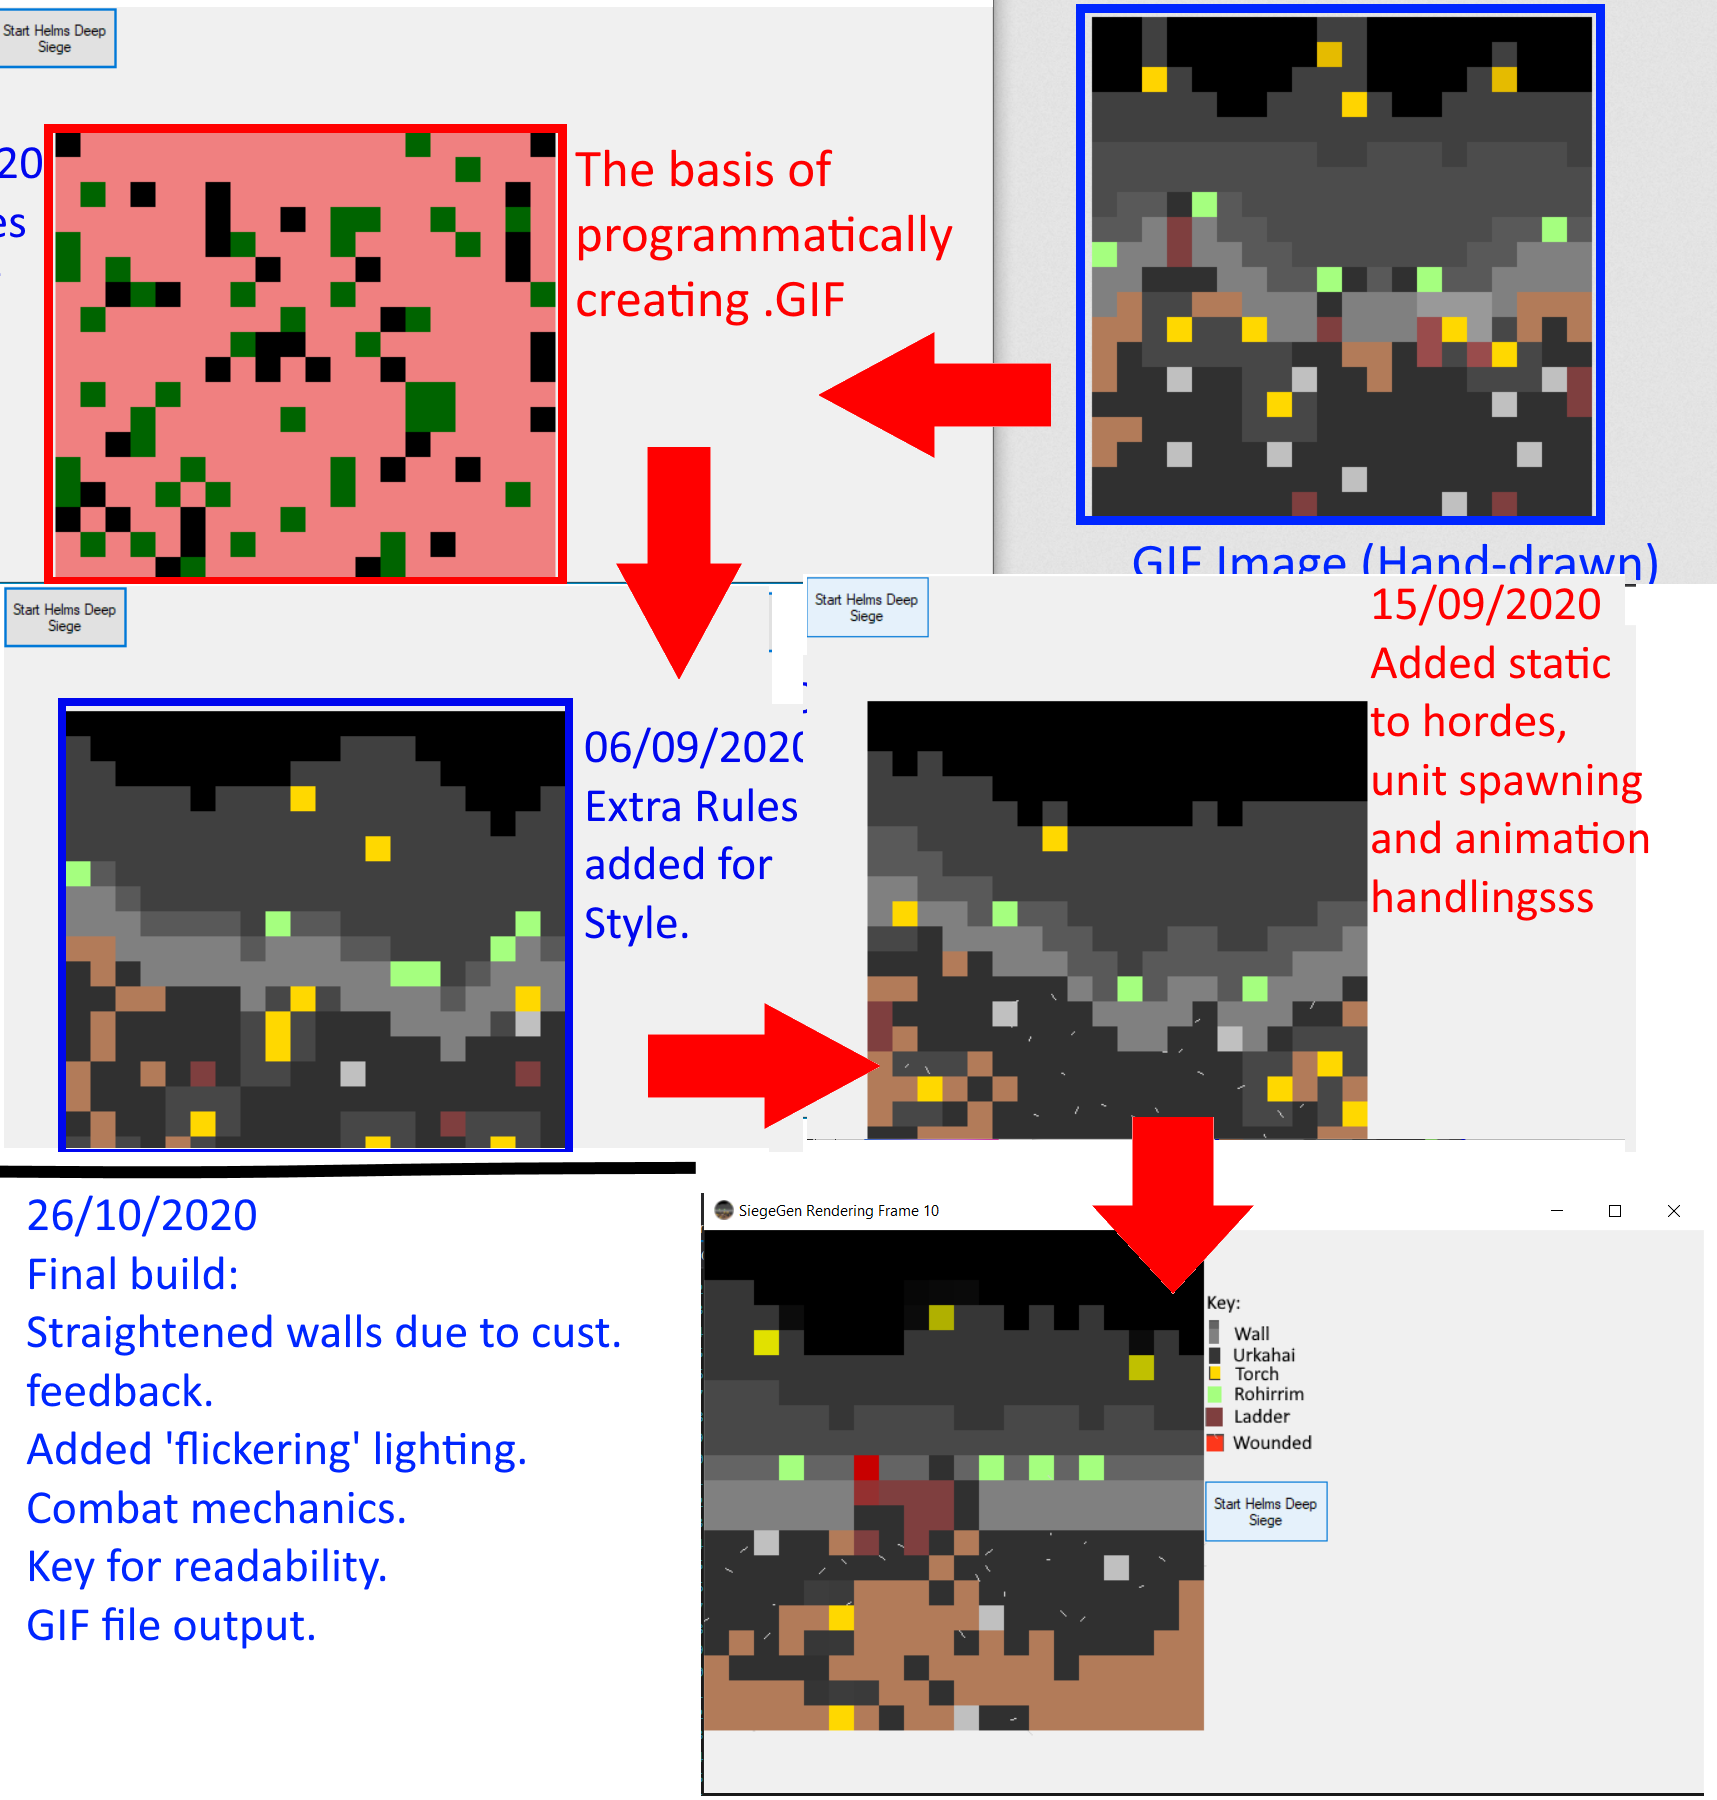
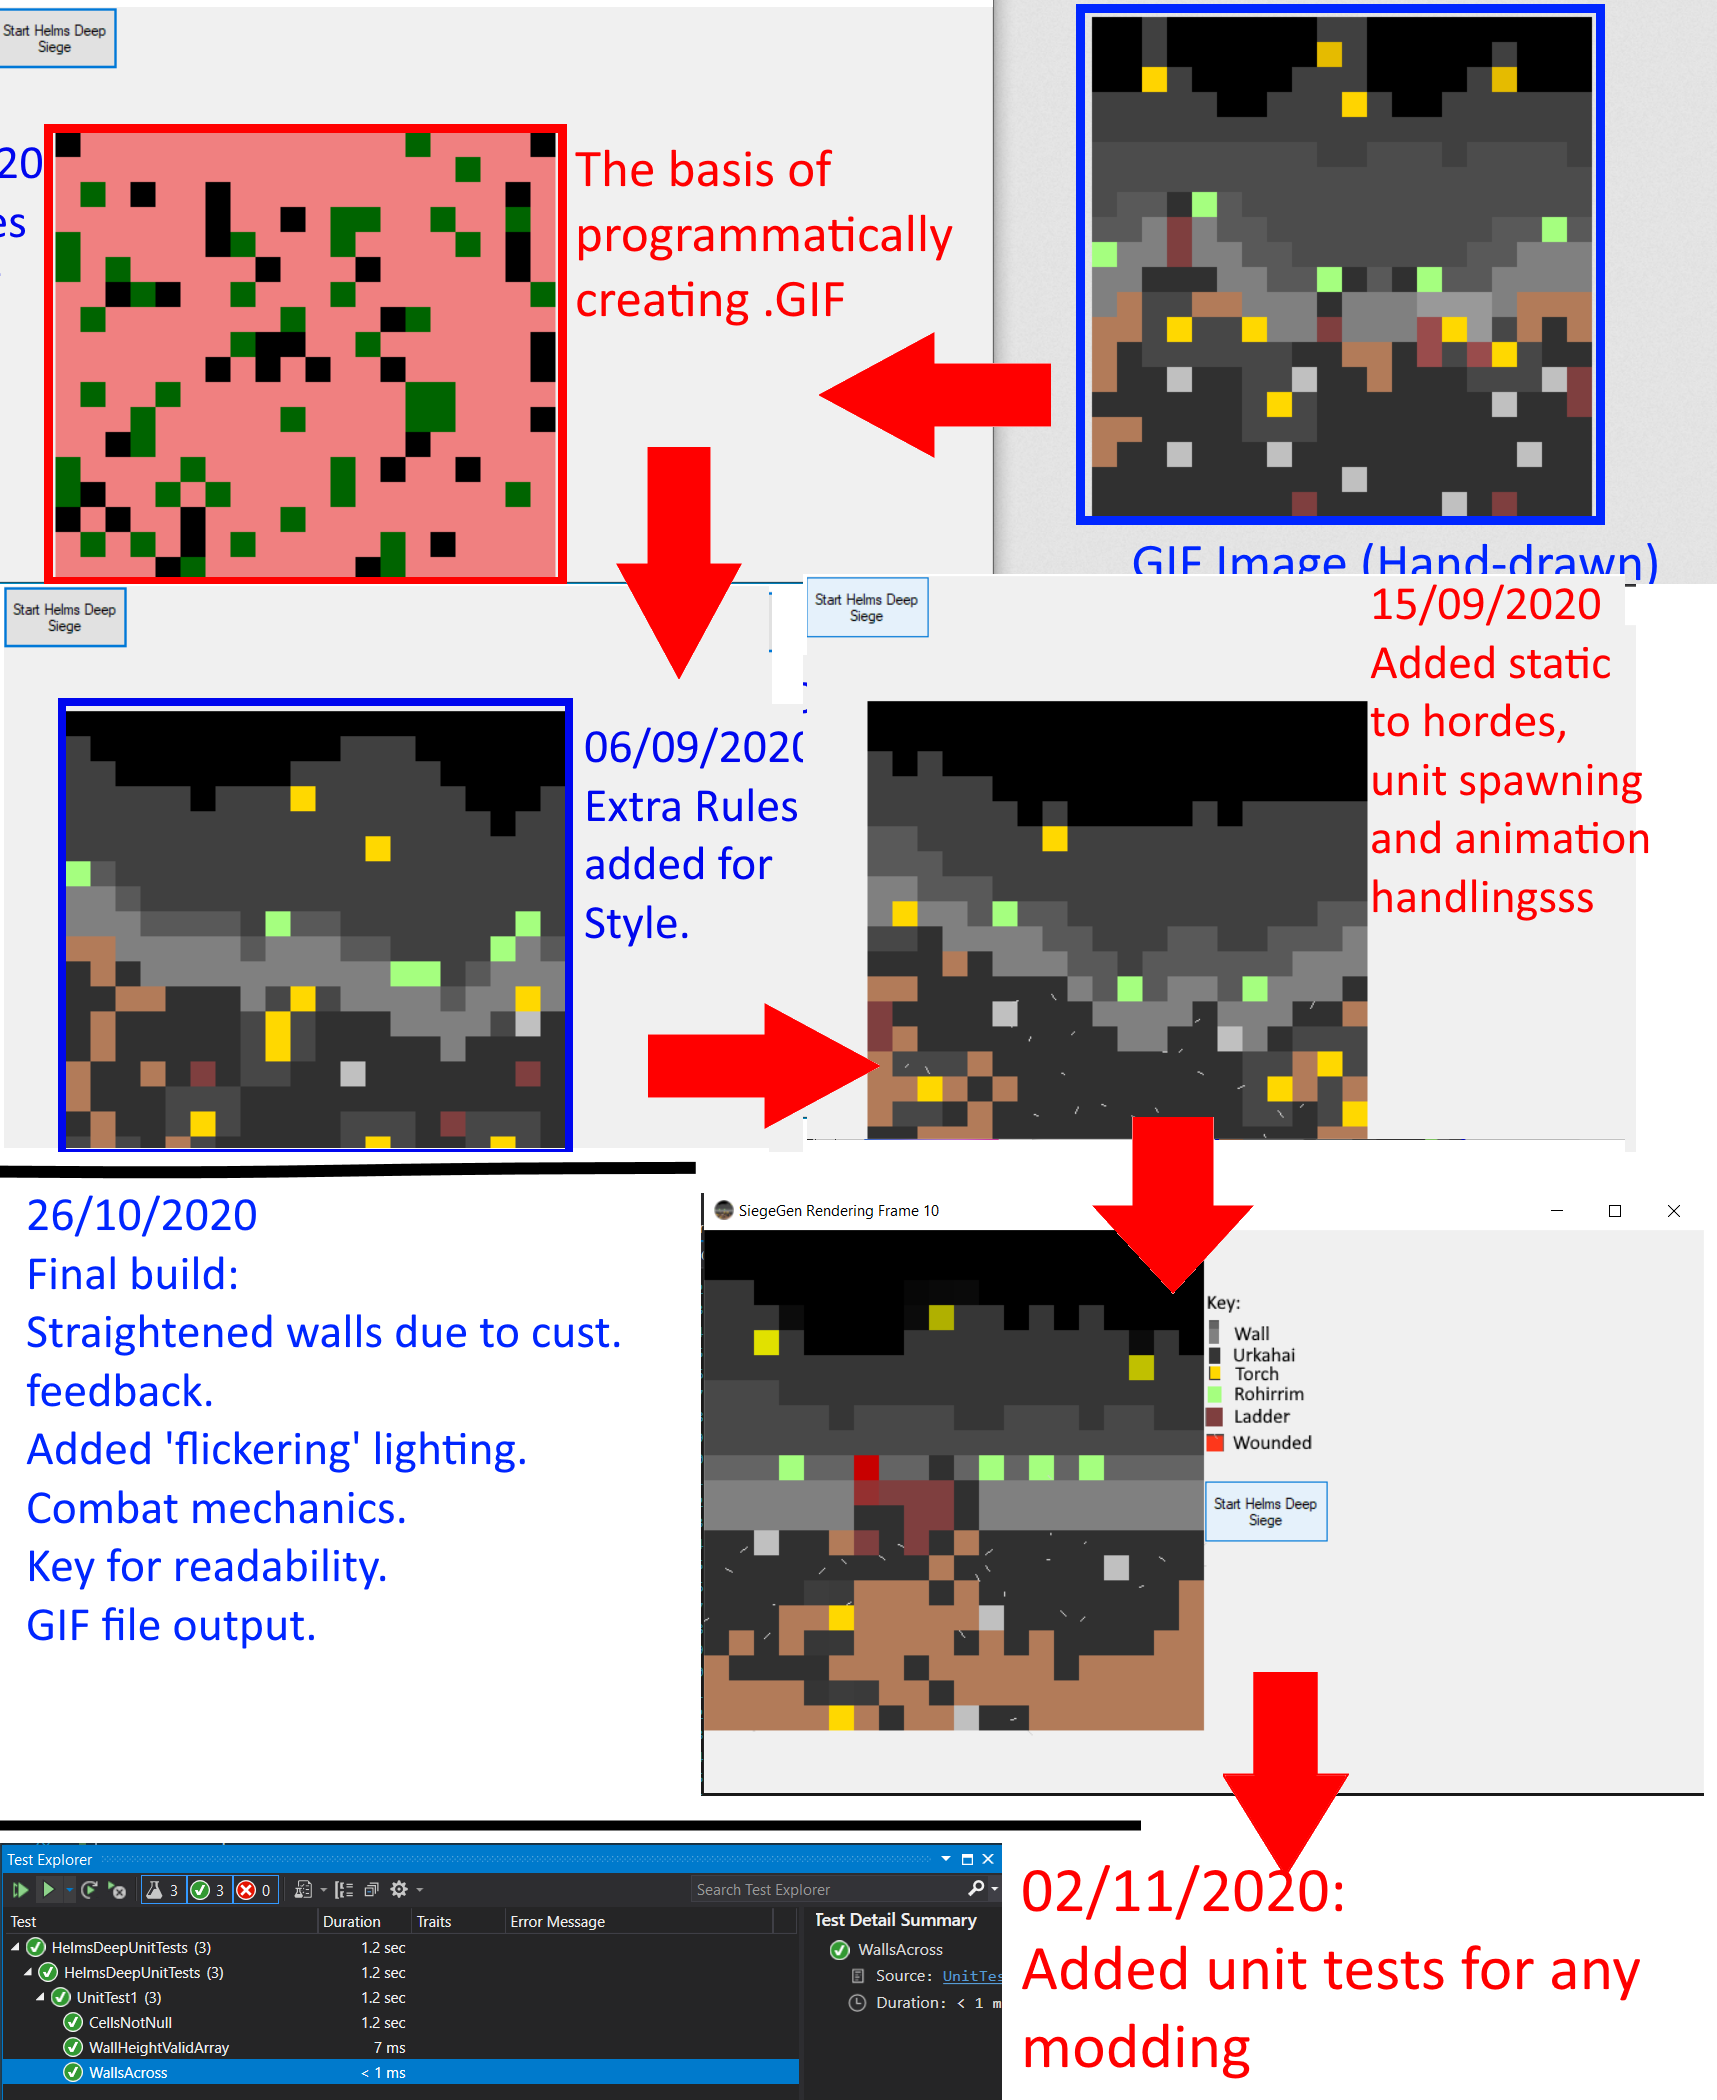
02/11/2020 UnitTest Upload
UnitTests1.cs -> Add Four Unit Tests
Add Comments to each Unit test
Update README image 'Progress.png'

diff --git a/UnitTest1.cs b/UnitTest1.cs
@@ -1,0 +1,133 @@
+using System;
+using System.Diagnostics;
+using System.Security.Cryptography;
+using Microsoft.VisualStudio.TestTools.UnitTesting;
+using WindowsFormsApp1;
+
+namespace HelmsDeepUnitTests
+{
+    [TestClass]
+    public class UnitTest1
+    {
+        /// <summary>
+        /// CellsNotNull runs the initation script that sets all cells to a default, and
+        /// then checks if all cells in <see cref="Globals.siegeCells"/> are not null.
+        /// </summary>
+        [TestMethod]
+
+        public void CellsNotNull()
+        {
+
+            bool pass = true;
+            if (true)
+            {
+
+                WorkerFunctions.HelmsDeepButton(new Form1(), 1);
+                for (int i = 0; i < Globals.height; i++)
+                {
+                    for (int f = 0; f < Globals.height; f++)
+                    {
+                        if (Globals.siegeCells[0, 0] == null)
+                        {
+                            pass = false;
+                        }
+                    }
+                }
+            }
+
+            if (pass)
+            {
+                Assert.AreNotEqual(pass, false);
+            }
+            else
+            {
+
+                Assert.Fail();
+            }
+        }
+        /// <summary>
+        /// WallHeightValidArray confirms that the 'wallheight' array is of valid data and size
+        /// </summary>
+        [TestMethod]
+        public void WallHeightValidArray()
+        {
+            bool pass = true;
+            if (Globals.height > Globals.wallHeight.Length)
+            {
+                Assert.Fail();
+            }
+            for (int i = 0; i < Globals.height; i++)
+            {
+                if (Globals.wallHeight[i] < 0 || Globals.wallHeight[i] > Globals.height)
+                {
+                    pass = false;
+                }
+            }
+            Assert.IsTrue(pass);
+        }
+        /// <summary>
+        /// Wall across takes the above pre-generated Globals and confirms all cells are either within the
+        /// parameters set by wallheight, ot not walls
+        /// </summary>
+        [TestMethod]
+        public void WallsAcross()
+        {
+            bool pass = true;
+            for (int i = 0; i < Globals.height; i++)
+            {
+                for (int f = 0; f < Globals.height; f++)
+                {
+                    if (Globals.siegeCells[i, f].GetCellType() == SiegeFunctions.CellTypes.Wall)
+                    {
+                        if (f - Globals.wallHeight[i] < 0 || f - Globals.wallHeight[i] > 2)
+                        {
+
+                            Assert.Fail(String.Format("Failing on wall  in non-valid spot with x,y,wallheight : {0} {1} {2}", i, f, Globals.wallHeight[i]));
+                            pass = false;
+                        }
+                    }
+                    if (Globals.wallHeight[i] + 1 == f || Globals.wallHeight[i] + 2 == f)
+                    {
+                        if (Globals.siegeCells[i, f].GetCellType() != SiegeFunctions.CellTypes.Wall)
+                        {
+                            Assert.Fail("Failing on wallheight array not wall");
+                            pass = false;
+                        }
+                    }
+                }
+                if (pass)
+                {
+                    Assert.AreEqual(pass, true);
+                }
+                else
+                {
+
+                    Assert.Fail();
+                }
+
+            }
+        }
+        /// <summary>
+        /// AllCellsNotOneType checks to see if any cells in the <see cref="Globals.siegeCells"/> array are of the type 'Empty',
+        /// As this celltype should never come up.
+        /// </summary>
+        [TestMethod]
+        public void AllCellsNotNoneType()
+        {
+            bool pass = true;
+            for (int i = 0; i < Globals.height; i++)
+            {
+                for (int f = 0; f < Globals.height; f++)
+                {
+                    if (Globals.siegeCells[i,f].GetCellType()==SiegeFunctions.CellTypes.Empty)
+                    {
+                        Assert.Fail(String.Format("Found and empty cell at x,y {0},{1}",i,f));
+                        pass = false;
+                    }
+                }
+            }
+            Assert.IsTrue(pass);
+        }
+
+    }
+}

diff --git a/README.md b/README.md
@@ -36,27 +36,16 @@ This is a short C# project designed to replicate a hand-drawn micro .GIF (animat
 26/10/2020 1.0 Release:
 
 WorkerFunctions.DisplayCells -> Modify output pixel-size to 400 so there is no excess canvas.
-
 SiegeFunctions.Directions -> Add enum 'Destroy' so unit can be removed.
-
 WorkerFunctions.SetupAnimation -> Add condition to reove cell if direction is 'destroyed'.
-
 WorkerFunctions.RunAnimation -> Add condition to make cell's direction 'destroy' 1/3 of the time where cell type is 'wounded to enable casulties
-
 WorkerFunctions.FillCells -> Make WallHeight always '8' to make walls straight (Due to customer feedback) 
-
 WorkerFunctions.DisplayCells -> Change ARGB values of walltop,cityproper and bakcgroundcity so they are more visible
-
 WorkerFunctions.DisplayCells -> Randomize 'lighting' change to adjacent ARGB values, to create a 'shimmering' lighting effect
-
 WorkerFunctions.DisplayCells -> Modify condition to add 'static; effect representing infantry, so that is appears on both 'Rohan' and 'Urkahai' ccellTypes
-
 WorkerFunctions.DisplayCells -> Modify wounded draw to increase Cell's 'R' value in it's relevatn brush colour, instead of being pink
-
 WorkerFunctions.HelmsDeepButton -> Add a single draw of 'Help.png' to the side of animation to help readability
-
 SiegeGenerator -> added 'SeigeGen.ico'
-
 SiegeGenerator -> Finish in-code documentation of functions.
 
 
